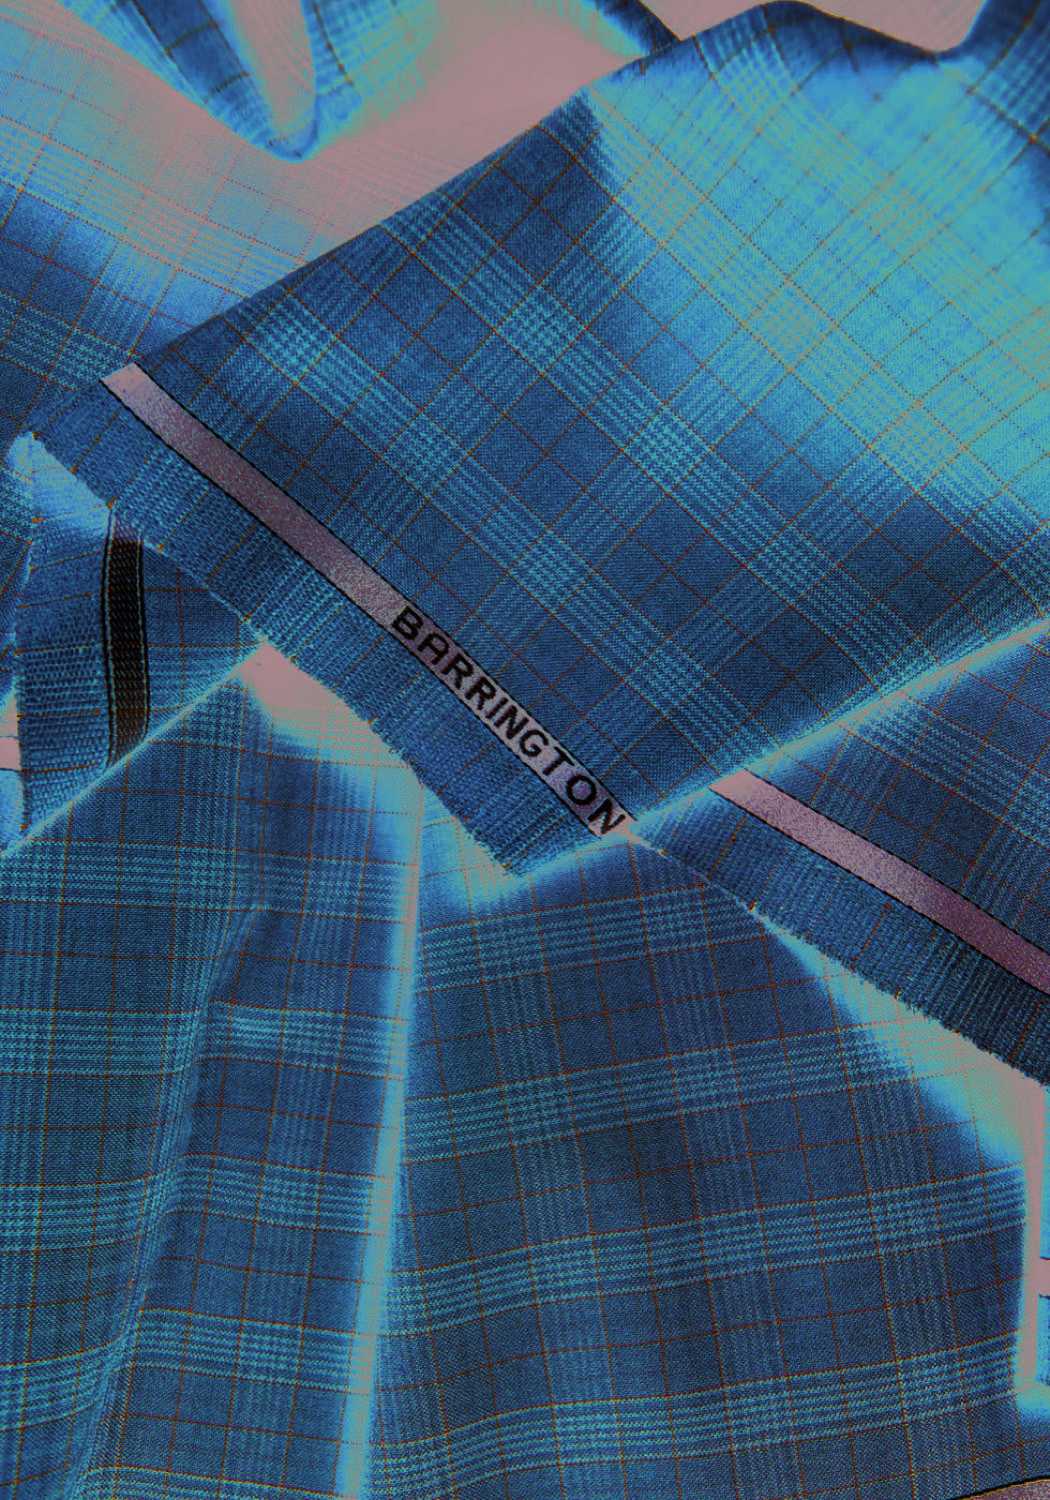
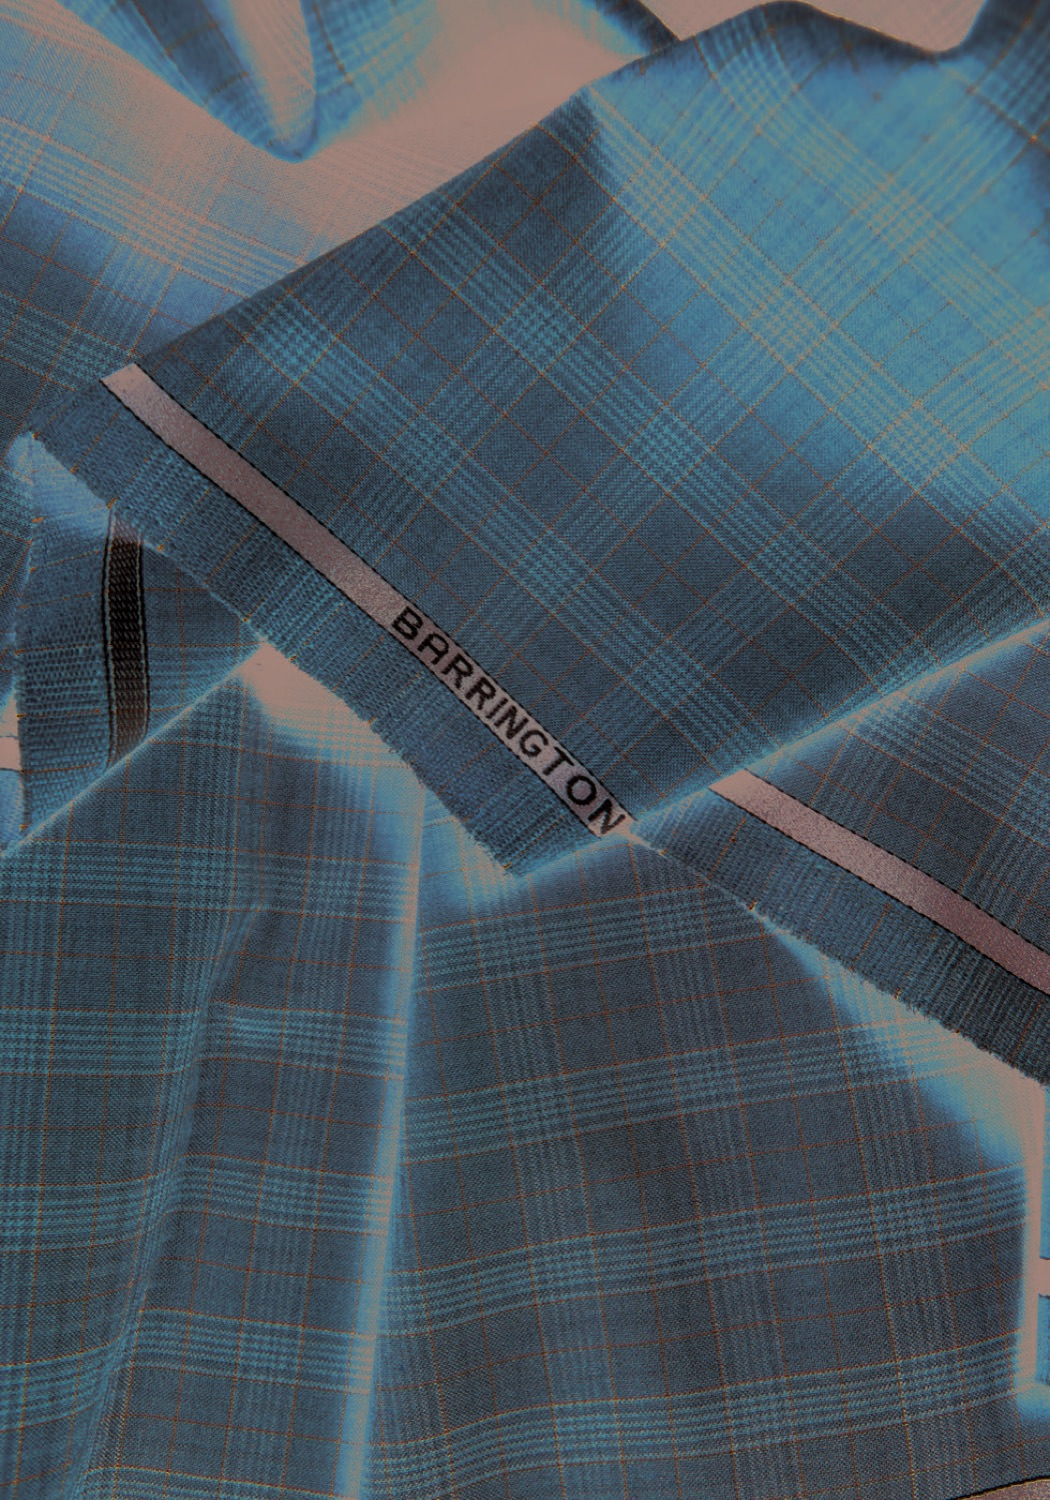
La portada baja de 3,2 MB a 1,4 MB, y el caché deja de durar 4 horas
Las tres imágenes más pesadas del sitio eran archivos CMYK de imprenta, con
cuatro canales en vez de tres: 1198, 957 y 1329 KB. Son también las únicas
tres CMYK de las 1003 imágenes. Convertidas a sRGB con gestión de color pesan
la mitad sin tocar la calidad, y además se ven mejor: Chrome renderizaba el
CMYK desaturado.

Van bajo un velo del 93 %, así que como fondo se usa una versión de 900px que
pesa 180 KB en lugar de 1198. Comparadas con el velo puesto son
indistinguibles; sin velo, en la tarjeta del blog, la nueva se ve mejor que
la vieja.

El caché lo aplica el middleware y no _headers: allí las reglas que coinciden
se suman en lugar de sustituirse, y con dos patrones solapados salía
«max-age=2592000, max-age=31536000». Las fotos de tela, que llevan su código
en el nombre y no se reemplazan nunca, un año; el resto de assets un mes,
porque alguna sí hemos cambiado conservando el nombre; telas.json un día,
porque cambia cuando entra tela nueva; el HTML, nada.

diff --git a/index.html b/index.html
@@ -1831,7 +1831,7 @@ body.tema-corporativo .wa-op[data-via="empresa"] { order: -1; }
     </div>
   </section>
 
-  <section class="seccion fondo-azul sobre-azul con-foto" style="--foto:url('/assets/editorial/ed-macro-orillo.jpg');">
+  <section class="seccion fondo-azul sobre-azul con-foto" style="--foto:url('/assets/editorial/ed-macro-orillo-fondo.jpg');">
     <div class="caja dos-col">
       <div class="rev">
         <div class="marca-div izq"><i></i></div>
@@ -1961,7 +1961,7 @@ body.tema-corporativo .wa-op[data-via="empresa"] { order: -1; }
   <section class="seccion-corta">
     <div class="caja">
       <div class="rejilla r2">
-        <a href="/telas" class="banner rev" data-ir="telas" style="--foto:url('/assets/editorial/ed-macro-cuadros.jpg');">
+        <a href="/telas" class="banner rev" data-ir="telas" style="--foto:url('/assets/editorial/ed-macro-cuadros-fondo.jpg');">
           <span class="banner-rotulo">Distribuidores oficiales</span>
           <span class="banner-titulo">Elige tu tela</span>
           <span class="banner-cta">Ver las telas</span>
@@ -1984,7 +1984,7 @@ body.tema-corporativo .wa-op[data-via="empresa"] { order: -1; }
           <div class="nota-cuerpo doble-filete"><span class="nota-meta">Guías</span><h3>Cómo elegir tu primer traje a medida</h3><p>Qué esperar de tu primera visita a la tienda.</p></div>
         </article>
         <article class="nota rev" data-d="1" data-ir="blog">
-          <div class="nota-img"><img src="/assets/editorial/ed-macro-super100.jpg" alt="Tejido Super 100s de Barrington" loading="lazy" width="1050" height="1500"></div>
+          <div class="nota-img"><img src="/assets/editorial/ed-macro-super100-fondo.jpg" alt="Tejido Super 100s de Barrington" loading="lazy" width="900" height="1285"></div>
           <div class="nota-cuerpo doble-filete"><span class="nota-meta">Telas</span><h3>Nacional o importada: cómo decidir</h3><p>Las diferencias que de verdad importan al elegir tejido.</p></div>
         </article>
         <article class="nota rev" data-d="2" data-ir="blog">
@@ -2226,7 +2226,7 @@ body.tema-corporativo .wa-op[data-via="empresa"] { order: -1; }
   </section>
 
   <!-- Banner hacia Telas -->
-  <a href="/telas" class="banner rev" data-ir="telas" style="--foto:url('/assets/editorial/ed-macro-super100.jpg');">
+  <a href="/telas" class="banner rev" data-ir="telas" style="--foto:url('/assets/editorial/ed-macro-super100-fondo.jpg');">
     <span class="banner-rotulo">La decisión que más pesa</span>
     <span class="banner-titulo">Todo empieza por la tela</span>
     <span class="banner-cta">Ver las telas</span>
@@ -2397,7 +2397,7 @@ body.tema-corporativo .wa-op[data-via="empresa"] { order: -1; }
        bloque de la página que tiene que destacar por encima de los demás.
        La placa junta el escudo de la casa con la marca de Barrington, que es
        la forma más directa de enseñar el vínculo en lugar de contarlo. -->
-  <section class="seccion fondo-azul sobre-azul con-foto" style="--foto:url('/assets/editorial/ed-macro-super100.jpg');">
+  <section class="seccion fondo-azul sobre-azul con-foto" style="--foto:url('/assets/editorial/ed-macro-super100-fondo.jpg');">
     <div class="caja casa-destacada">
       <div class="casa-placa rev">
         <img class="placa-escudo" src="/assets/escudo-azul.png" alt="Andrés Vargas Boutique" loading="lazy" width="261" height="420">
@@ -2612,7 +2612,7 @@ body.tema-corporativo .wa-op[data-via="empresa"] { order: -1; }
   </section>
 
   <!-- CONSULTA DE TELA -->
-  <section class="seccion con-foto sobre-azul" id="consulta-tela" style="--foto:url('/assets/editorial/ed-macro-cuadros.jpg');">
+  <section class="seccion con-foto sobre-azul" id="consulta-tela" style="--foto:url('/assets/editorial/ed-macro-cuadros-fondo.jpg');">
     <div class="caja">
       <div class="enc centro">
         <div class="marca-div"><i></i><img src="/assets/escudo-blanco.png" alt="" loading="lazy" width="261" height="420"><i></i></div>
@@ -2964,7 +2964,7 @@ body.tema-corporativo .wa-op[data-via="empresa"] { order: -1; }
           <div class="nota-cuerpo doble-filete"><span class="nota-meta">Guías · Próximamente</span><h3>Cómo elegir tu primer traje a medida</h3><p>Qué esperar de tu primera visita y cómo llegar preparado.</p></div>
         </article>
         <article class="nota rev" data-d="1">
-          <div class="nota-img"><img src="/assets/editorial/ed-macro-super100.jpg" alt="Tejido Super 100s de Barrington" loading="lazy" width="1050" height="1500"></div>
+          <div class="nota-img"><img src="/assets/editorial/ed-macro-super100-fondo.jpg" alt="Tejido Super 100s de Barrington" loading="lazy" width="900" height="1285"></div>
           <div class="nota-cuerpo doble-filete"><span class="nota-meta">Telas · Próximamente</span><h3>Nacional o importada: cómo decidir</h3><p>Las diferencias que de verdad importan al elegir el tejido.</p></div>
         </article>
         <article class="nota rev" data-d="2">
@@ -3149,7 +3149,7 @@ body.tema-corporativo .wa-op[data-via="empresa"] { order: -1; }
     </div>
   </section>
 
-  <section class="seccion-corta fondo-azul sobre-azul con-foto" style="--foto:url('/assets/editorial/ed-macro-orillo.jpg');">
+  <section class="seccion-corta fondo-azul sobre-azul con-foto" style="--foto:url('/assets/editorial/ed-macro-orillo-fondo.jpg');">
     <div class="caja centro">
       <h2 class="t-xl">¿Te interesa alguna?</h2>
       <p class="lead centro medida" style="margin-top:1rem;">Escríbenos con el código y te decimos disponibilidad, o pásate por cualquiera de nuestras seis tiendas a verla y tocarla.</p>
@@ -3226,7 +3226,7 @@ body.tema-corporativo .wa-op[data-via="empresa"] { order: -1; }
     </div>
   </section>
 
-  <section class="seccion-corta fondo-azul sobre-azul con-foto" style="--foto:url('/assets/editorial/ed-macro-orillo.jpg');">
+  <section class="seccion-corta fondo-azul sobre-azul con-foto" style="--foto:url('/assets/editorial/ed-macro-orillo-fondo.jpg');">
     <div class="caja centro">
       <h2 class="t-xl">¿Te interesa alguna?</h2>
       <p class="lead centro medida" style="margin-top:1rem;">Escríbenos con el código y te decimos disponibilidad, o pásate por cualquiera de nuestras seis tiendas a verla y tocarla.</p>
@@ -3303,7 +3303,7 @@ body.tema-corporativo .wa-op[data-via="empresa"] { order: -1; }
     </div>
   </section>
 
-  <section class="seccion-corta fondo-azul sobre-azul con-foto" style="--foto:url('/assets/editorial/ed-macro-orillo.jpg');">
+  <section class="seccion-corta fondo-azul sobre-azul con-foto" style="--foto:url('/assets/editorial/ed-macro-orillo-fondo.jpg');">
     <div class="caja centro">
       <h2 class="t-xl">¿Te interesa alguna?</h2>
       <p class="lead centro medida" style="margin-top:1rem;">Escríbenos con el código y te decimos disponibilidad, o pásate por cualquiera de nuestras seis tiendas a verla y tocarla.</p>
@@ -3380,7 +3380,7 @@ body.tema-corporativo .wa-op[data-via="empresa"] { order: -1; }
     </div>
   </section>
 
-  <section class="seccion-corta fondo-azul sobre-azul con-foto" style="--foto:url('/assets/editorial/ed-macro-orillo.jpg');">
+  <section class="seccion-corta fondo-azul sobre-azul con-foto" style="--foto:url('/assets/editorial/ed-macro-orillo-fondo.jpg');">
     <div class="caja centro">
       <h2 class="t-xl">¿Te interesa alguna?</h2>
       <p class="lead centro medida" style="margin-top:1rem;">Escríbenos con el código y te decimos disponibilidad, o pásate por cualquiera de nuestras seis tiendas a verla y tocarla.</p>
@@ -3456,7 +3456,7 @@ body.tema-corporativo .wa-op[data-via="empresa"] { order: -1; }
     </div>
   </section>
 
-  <section class="seccion-corta fondo-azul sobre-azul con-foto" style="--foto:url('/assets/editorial/ed-macro-orillo.jpg');">
+  <section class="seccion-corta fondo-azul sobre-azul con-foto" style="--foto:url('/assets/editorial/ed-macro-orillo-fondo.jpg');">
     <div class="caja centro">
       <h2 class="t-xl">¿Te interesa alguna?</h2>
       <p class="lead centro medida" style="margin-top:1rem;">Escríbenos con el código y te decimos disponibilidad, o pásate por cualquiera de nuestras seis tiendas a verla y tocarla.</p>
@@ -3532,7 +3532,7 @@ body.tema-corporativo .wa-op[data-via="empresa"] { order: -1; }
     </div>
   </section>
 
-  <section class="seccion-corta fondo-azul sobre-azul con-foto" style="--foto:url('/assets/editorial/ed-macro-orillo.jpg');">
+  <section class="seccion-corta fondo-azul sobre-azul con-foto" style="--foto:url('/assets/editorial/ed-macro-orillo-fondo.jpg');">
     <div class="caja centro">
       <h2 class="t-xl">¿Te interesa alguna?</h2>
       <p class="lead centro medida" style="margin-top:1rem;">Escríbenos con el código y te decimos disponibilidad, o pásate por cualquiera de nuestras seis tiendas a verla y tocarla.</p>
@@ -3608,7 +3608,7 @@ body.tema-corporativo .wa-op[data-via="empresa"] { order: -1; }
     </div>
   </section>
 
-  <section class="seccion-corta fondo-azul sobre-azul con-foto" style="--foto:url('/assets/editorial/ed-macro-orillo.jpg');">
+  <section class="seccion-corta fondo-azul sobre-azul con-foto" style="--foto:url('/assets/editorial/ed-macro-orillo-fondo.jpg');">
     <div class="caja centro">
       <h2 class="t-xl">¿Te interesa alguna?</h2>
       <p class="lead centro medida" style="margin-top:1rem;">Escríbenos con el código y te decimos disponibilidad, o pásate por cualquiera de nuestras seis tiendas a verla y tocarla.</p>
@@ -3684,7 +3684,7 @@ body.tema-corporativo .wa-op[data-via="empresa"] { order: -1; }
     </div>
   </section>
 
-  <section class="seccion-corta fondo-azul sobre-azul con-foto" style="--foto:url('/assets/editorial/ed-macro-orillo.jpg');">
+  <section class="seccion-corta fondo-azul sobre-azul con-foto" style="--foto:url('/assets/editorial/ed-macro-orillo-fondo.jpg');">
     <div class="caja centro">
       <h2 class="t-xl">¿Te interesa alguna?</h2>
       <p class="lead centro medida" style="margin-top:1rem;">Escríbenos con el código y te decimos disponibilidad, o pásate por cualquiera de nuestras seis tiendas a verla y tocarla.</p>
@@ -3760,7 +3760,7 @@ body.tema-corporativo .wa-op[data-via="empresa"] { order: -1; }
     </div>
   </section>
 
-  <section class="seccion-corta fondo-azul sobre-azul con-foto" style="--foto:url('/assets/editorial/ed-macro-orillo.jpg');">
+  <section class="seccion-corta fondo-azul sobre-azul con-foto" style="--foto:url('/assets/editorial/ed-macro-orillo-fondo.jpg');">
     <div class="caja centro">
       <h2 class="t-xl">¿Te interesa alguna?</h2>
       <p class="lead centro medida" style="margin-top:1rem;">Escríbenos con el código y te decimos disponibilidad, o pásate por cualquiera de nuestras seis tiendas a verla y tocarla.</p>
@@ -3836,7 +3836,7 @@ body.tema-corporativo .wa-op[data-via="empresa"] { order: -1; }
     </div>
   </section>
 
-  <section class="seccion-corta fondo-azul sobre-azul con-foto" style="--foto:url('/assets/editorial/ed-macro-orillo.jpg');">
+  <section class="seccion-corta fondo-azul sobre-azul con-foto" style="--foto:url('/assets/editorial/ed-macro-orillo-fondo.jpg');">
     <div class="caja centro">
       <h2 class="t-xl">¿Te interesa alguna?</h2>
       <p class="lead centro medida" style="margin-top:1rem;">Escríbenos con el código y te decimos disponibilidad, o pásate por cualquiera de nuestras seis tiendas a verla y tocarla.</p>
@@ -3905,7 +3905,7 @@ body.tema-corporativo .wa-op[data-via="empresa"] { order: -1; }
     </div>
   </section>
 
-  <section class="seccion-corta fondo-azul sobre-azul con-foto" style="--foto:url('/assets/editorial/ed-macro-orillo.jpg');">
+  <section class="seccion-corta fondo-azul sobre-azul con-foto" style="--foto:url('/assets/editorial/ed-macro-orillo-fondo.jpg');">
     <div class="caja centro">
       <h2 class="t-xl">¿Te interesa alguna?</h2>
       <p class="lead centro medida" style="margin-top:1rem;">Escríbenos con el código y te decimos disponibilidad, o pásate por cualquiera de nuestras seis tiendas a verla y tocarla.</p>
@@ -3983,7 +3983,7 @@ body.tema-corporativo .wa-op[data-via="empresa"] { order: -1; }
     </div>
   </section>
 
-  <section class="seccion-corta fondo-azul sobre-azul con-foto" style="--foto:url('/assets/editorial/ed-macro-orillo.jpg');">
+  <section class="seccion-corta fondo-azul sobre-azul con-foto" style="--foto:url('/assets/editorial/ed-macro-orillo-fondo.jpg');">
     <div class="caja centro">
       <h2 class="t-xl">¿Quieres verlas en persona?</h2>
       <p class="lead centro medida" style="margin-top:1rem;">Escríbenos y te decimos disponibilidad, o pásate por cualquiera de nuestras seis tiendas de Lima a verlas y tocarlas.</p>
@@ -4060,7 +4060,7 @@ body.tema-corporativo .wa-op[data-via="empresa"] { order: -1; }
     </div>
   </section>
 
-  <section class="seccion-corta fondo-azul sobre-azul con-foto" style="--foto:url('/assets/editorial/ed-macro-orillo.jpg');">
+  <section class="seccion-corta fondo-azul sobre-azul con-foto" style="--foto:url('/assets/editorial/ed-macro-orillo-fondo.jpg');">
     <div class="caja centro">
       <h2 class="t-xl">¿Quieres verlas en persona?</h2>
       <p class="lead centro medida" style="margin-top:1rem;">Escríbenos y te decimos disponibilidad, o pásate por cualquiera de nuestras seis tiendas de Lima a verlas y tocarlas.</p>
@@ -4137,7 +4137,7 @@ body.tema-corporativo .wa-op[data-via="empresa"] { order: -1; }
     </div>
   </section>
 
-  <section class="seccion-corta fondo-azul sobre-azul con-foto" style="--foto:url('/assets/editorial/ed-macro-orillo.jpg');">
+  <section class="seccion-corta fondo-azul sobre-azul con-foto" style="--foto:url('/assets/editorial/ed-macro-orillo-fondo.jpg');">
     <div class="caja centro">
       <h2 class="t-xl">¿Quieres verlas en persona?</h2>
       <p class="lead centro medida" style="margin-top:1rem;">Escríbenos y te decimos disponibilidad, o pásate por cualquiera de nuestras seis tiendas de Lima a verlas y tocarlas.</p>
@@ -4214,7 +4214,7 @@ body.tema-corporativo .wa-op[data-via="empresa"] { order: -1; }
     </div>
   </section>
 
-  <section class="seccion-corta fondo-azul sobre-azul con-foto" style="--foto:url('/assets/editorial/ed-macro-orillo.jpg');">
+  <section class="seccion-corta fondo-azul sobre-azul con-foto" style="--foto:url('/assets/editorial/ed-macro-orillo-fondo.jpg');">
     <div class="caja centro">
       <h2 class="t-xl">¿Quieres verlas en persona?</h2>
       <p class="lead centro medida" style="margin-top:1rem;">Escríbenos y te decimos disponibilidad, o pásate por cualquiera de nuestras seis tiendas de Lima a verlas y tocarlas.</p>
@@ -4291,7 +4291,7 @@ body.tema-corporativo .wa-op[data-via="empresa"] { order: -1; }
     </div>
   </section>
 
-  <section class="seccion-corta fondo-azul sobre-azul con-foto" style="--foto:url('/assets/editorial/ed-macro-orillo.jpg');">
+  <section class="seccion-corta fondo-azul sobre-azul con-foto" style="--foto:url('/assets/editorial/ed-macro-orillo-fondo.jpg');">
     <div class="caja centro">
       <h2 class="t-xl">¿Quieres verlas en persona?</h2>
       <p class="lead centro medida" style="margin-top:1rem;">Escríbenos y te decimos disponibilidad, o pásate por cualquiera de nuestras seis tiendas de Lima a verlas y tocarlas.</p>
@@ -4368,7 +4368,7 @@ body.tema-corporativo .wa-op[data-via="empresa"] { order: -1; }
     </div>
   </section>
 
-  <section class="seccion-corta fondo-azul sobre-azul con-foto" style="--foto:url('/assets/editorial/ed-macro-orillo.jpg');">
+  <section class="seccion-corta fondo-azul sobre-azul con-foto" style="--foto:url('/assets/editorial/ed-macro-orillo-fondo.jpg');">
     <div class="caja centro">
       <h2 class="t-xl">¿Quieres verlas en persona?</h2>
       <p class="lead centro medida" style="margin-top:1rem;">Escríbenos y te decimos disponibilidad, o pásate por cualquiera de nuestras seis tiendas de Lima a verlas y tocarlas.</p>
@@ -4848,7 +4848,7 @@ body.tema-corporativo .wa-op[data-via="empresa"] { order: -1; }
       nombre: 'Barrington',
       cat: 'Marca',
       badge: 'Marca',
-      foto: '/assets/editorial/ed-macro-super100.jpg',
+      foto: '/assets/editorial/ed-macro-super100-fondo.jpg',
       titulo: 'Proyecto de confección para la marca',
       texto: 'Desarrollo y confección de prendas para Barrington.',
       chips: ['Confección'],

diff --git a/functions/_middleware.js b/functions/_middleware.js
@@ -357,6 +357,26 @@ class Menu {
    propio conservando ruta y parámetros. Solo se compara el host exacto: las
    previsualizaciones de rama llevan un prefijo distinto y deben seguir
    abriéndose para poder revisarlas antes de publicar. */
+/* Pages servía todo con cuatro horas de caché, así que quien volvía al día
+   siguiente se descargaba otra vez las fotos, que son casi todo el peso. Cada
+   ruta recibe aquí una sola política, y no en _headers, porque allí las reglas
+   que coinciden se suman en lugar de sustituirse. */
+function politicaCache(ruta) {
+  // Las 966 fotos de tela llevan el código de la tela en el nombre y no se
+  // reemplazan nunca en su sitio: se pueden guardar un año.
+  if (/^\/assets\/telas\/[^/]+\.(jpe?g|png|webp)$/i.test(ruta)) {
+    return 'public, max-age=31536000, immutable';
+  }
+  // El catálogo sí cambia cuando entra tela nueva.
+  if (ruta === '/assets/telas.json') return 'public, max-age=86400, must-revalidate';
+  // El resto de assets sí se ha reemplazado alguna vez conservando el nombre,
+  // así que un mes y no un año: un cambio tarda semanas en llegar, no un año.
+  if (ruta.startsWith('/assets/')) return 'public, max-age=2592000';
+  if (ruta === '/favicon.ico') return 'public, max-age=604800';
+  if (ruta === '/sitemap.xml' || ruta === '/robots.txt') return 'public, max-age=3600';
+  return null;
+}
+
 const HOST_VIEJO = 'andres-vargas-web.pages.dev';
 
 /* Una tela concreta se comparte como /catalogo-de-telas?tela=518001-135. No es
@@ -462,7 +482,10 @@ export async function onRequest(context) {
         headers: { 'content-type': 'text/plain; charset=utf-8' },
       });
     }
-    return res;
+    const salida = new Response(res.body, res);
+    const cache = politicaCache(ruta);
+    if (cache) salida.headers.set('cache-control', cache);
+    return salida;
   }
 
   // Cualquier otra cosa no existe. Antes devolvía la portada con 200.
